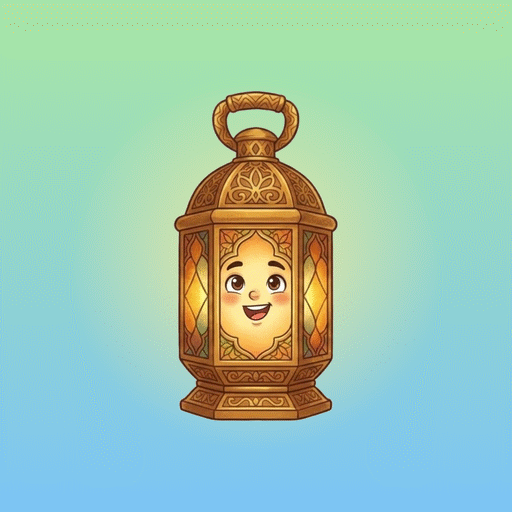
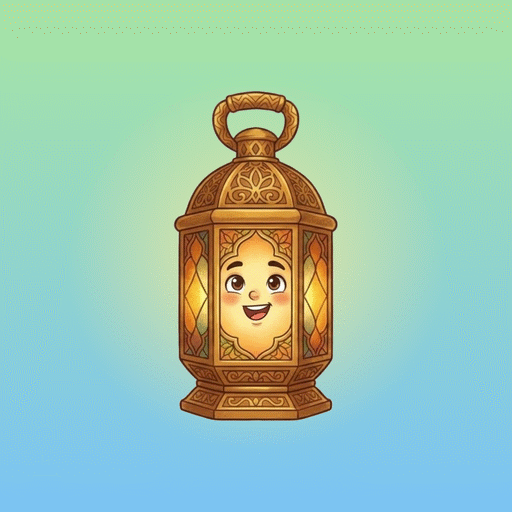
أيقونة التطبيق: حفظ بعمق ٨-بت (كانت ١٦-بت)
- icon-192 و icon-512 بقوا PNG8 عادي يشتغل على كل الأجهزة، وحجمهم أصغر
- رفع الإصدار qg-v54

Claude-Session: https://claude.ai/code/session_017sgypRBciAzWcK7sai6daC

Changed region(s): [[0.75, 0.3125, 1.0, 0.875], [0.0, 0.3125, 0.25, 0.875], [0.125, 0.5, 0.1562, 0.5312]]

diff --git a/sw.js b/sw.js
@@ -1,5 +1,5 @@
 /* رحلة القرآن — Service Worker: يفتح بدون إنترنت بعد أول زيارة */
-const C = 'qg-v53';
+const C = 'qg-v54';
 const CORE = ['./', 'index.html', 'guide.html', 'guide-child.html', 'guide-quick.html', 'guide-manager.html', 'manifest.webmanifest', 'icon-192.png', 'icon-512.png',
   'art/hero-m.webp', 'art/garden.webp', 'art/boy.webp', 'art/girl.webp', 'art/hijab.webp',
   'art/nour-happy.webp', 'art/nour-talk.webp', 'art/nour-think.webp', 'art/nour-cheer.webp', 'art/nour-sleep.webp',
